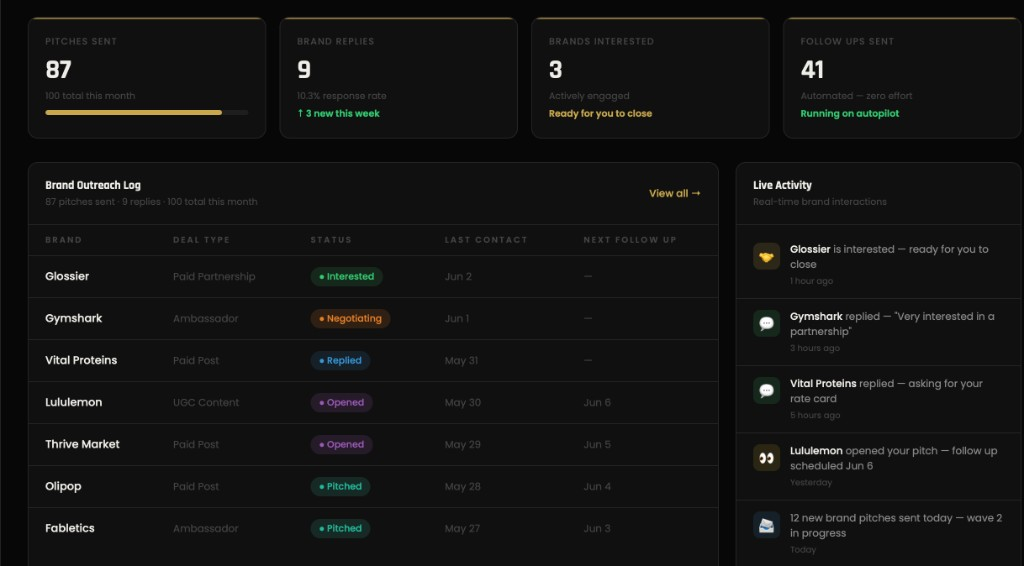
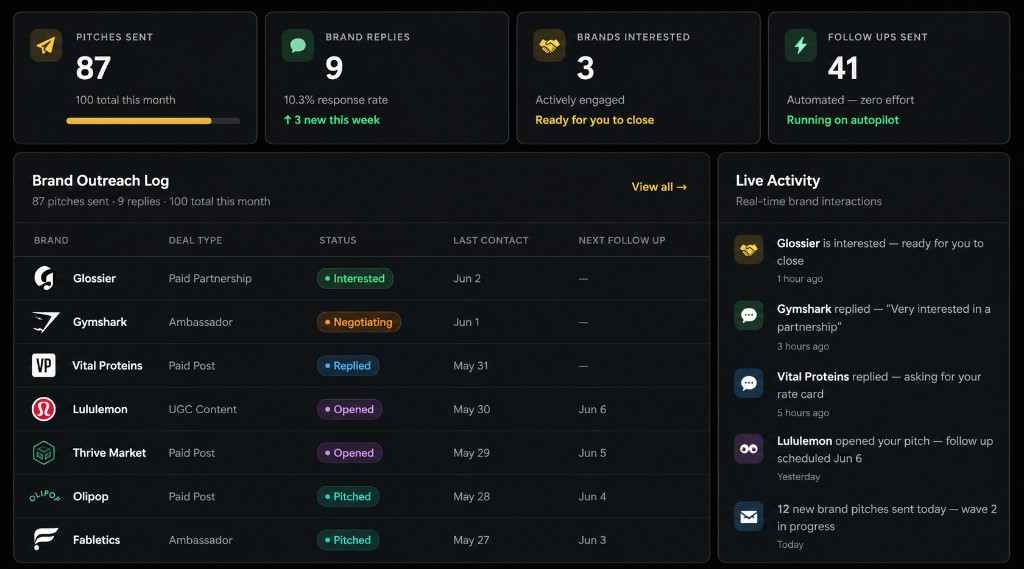
Update hero dashboard image.

diff --git a/index.html b/index.html
@@ -168,7 +168,7 @@
         }
         .hero-grid {
             display: grid;
-            width: min(1320px, calc(100% - 40px));
+            width: min(1420px, calc(100% - 40px));
             margin: 0 auto;
             grid-template-columns: minmax(0, 0.58fr) minmax(0, 1fr);
             gap: 10px;
@@ -219,7 +219,7 @@
         .campaign-dashboard {
             position: relative;
             justify-self: stretch;
-            width: min(820px, 100%);
+            width: min(900px, 100%);
             transform: none;
             padding: 0;
             border: 1px solid rgba(197,160,74,.48);